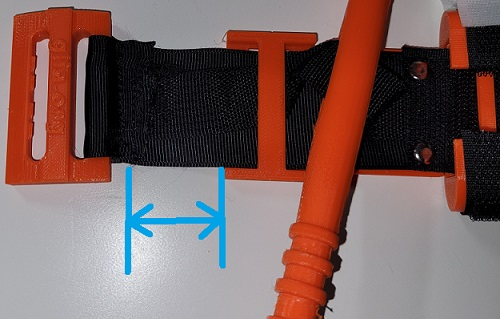
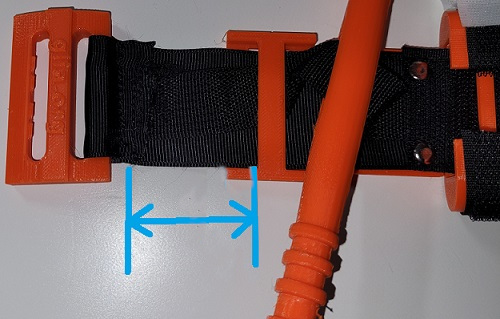
Added Denys' Illustrations to Updated EN Instructions and changed Korin's photo 60A1 (#43)
* Update INSTRUCTIONS_EN.md

* Update INSTRUCTIONS_EN.md

* Add files via upload

* Add files via upload

* Added Denys' illustrations to EN instructions.

Illustrations 5 and 9 were not used due to possible confusion with current updated English instructions/photos.

* Add modified photo to quality_images to show correct dimension.

Modified image shows to the bridge of the back plate, not just to the edge of the back plate.

* Changed image 60A1 to 60A2 in order to reflect change in dimension stated.

Dimension is measured from bridge of back plate, not the edge of the back plate.

* Delete IC-0060A1.jpg

* Delete IC-0060A2.jpg

* Update tourniquet quality inspection.md

* Adds edited photo 60A1 back in 

Photo edited to depict proper dimension.

* Added illustration 5 to step #5

Adding illustration 5 to step #5 in these updated EN instructions.

Changed region(s): [[0.39, 0.5078, 0.54, 0.8464]]

diff --git a/assembly_instructions/INSTRUCTIONS_EN.md b/assembly_instructions/INSTRUCTIONS_EN.md
@@ -27,8 +27,12 @@ https://github.com/GliaX/tourniquet
 |Nylon Heavy Webbing Strap 2 cm wide|1|95cm|
 |White Adhesive Hook 2 cm wide|1|16cm|
 |Non-Adhesive Loop 2 cm wide|1|17cm|
-
-<br>
+![Illustration 1](../assets/instructions/illustration1.jpg)
+<p>
+<p>
+*Please keep in mind, the Polyester Cotton Webbing Strap in the above graphic, is actually the Polyester Grosgrain Ribbon in the table above the graphic. It's referenced at the lengths in the table due to the Canada office wanting zero waste of the strapping, or as little as possible. The graphic has both inner and outer strapping at 97cm, which works, but may have some excess strap to trim. it's probably safer to start with 97cm for initial device.*
+<p>
+<p>
 2. For the front face of the belt, begin by placing the Hook and Loop in order of how they will be sewn together. The first piece to sew is the 6cm Loop to the 6cm Hook at the rounded end of the belt.
 
 |![Fig2](../assets/instructions/fig2.png)|
@@ -36,25 +40,28 @@ https://github.com/GliaX/tourniquet
 
 3. Sew pieces together sequentially in a cascading pattern by placing the edge of each piece above the edge of the next piece and then sewing across them along the seam a couple of times with a zigzag stitch. This type of assembly increases tensile strength, and facilitates a smooth pull through the buckle.
 
-|![Fig3](../assets/instructions/fig3.png)|
-|:-------------------------|
+![Fig3](../assets/instructions/fig3.png)
+![Illustration 2](../assets/instructions/illustration2.jpg)
+![Illustration 3](../assets/instructions/illustration3.jpg)
 
 4. Sew the polyester grosgrain strap (3.8cm wide) to the Hook and Loop assembly just sewn, making sure that the Hook and Loop is facing outward. Sew one long side only and leave the other side free to insert the internal belt. (For alternative method of inserting internal belt, please see Addendum at the bottom of these Tourniquet Assembly Instructions.)
 
-|![Fig4](../assets/instructions/fig4.jpg)|![Fig5](../assets/instructions/fig5.jpg)|
-|:--------------------------------------|:-------------------------|
-
+![Fig4](../assets/instructions/fig4.jpg)
+![Fig5](../assets/instructions/fig5.jpg)
+![Illustration 4](../assets/instructions/illustration4.jpg)
 
 5. Insert the internal belt between the front and back of the external belt, and then sew across the internal and external belts with a straight stitch 3 cm from the end with the small 6 cm Loop 	piece, anchoring the internal belt between both sides of the external belt.
 
-|![Fig6](../assets/instructions/fig6.png)|![Fig7](../assets/instructions/fig7.png)|
-|:--------------------------------------|:-------------------------|
-
+![Fig6](../assets/instructions/fig6.png)
+![Illustration 5](../assets/instructions/illustration5.jpg)
+![Fig7](../assets/instructions/fig7.png)
+![Illustration 6](../assets/instructions/illustration6.jpg)
 
 6. Sew box stitch 5 cm from end (2 cm from straight stitch across belts), then cut end round and 	sew around the cut edge. Carefully burn off frayed edge of belt.
 
-|![Fig8](../assets/instructions/fig8.png)|
-|:-------------------------|
+![Fig8](../assets/instructions/fig8.png)
+![Illustration 7](../assets/instructions/illustration7.jpg)
+![Illustration 8](../assets/instructions/illustration8.jpg)
 
 7. Sew the open side of the exterior belt making sure not to sew the side edge of the internal belt as well. **It is very important that the internal belt remains free to move.**
 
@@ -121,7 +128,7 @@ https://github.com/GliaX/tourniquet
 |:--------------------------------------|:-------------------------|
 
 
-18. Completed tourniquet, folded and ready for packaging.
+18. Completed tourniquet, folded and ready for packaging. See folding video [here](https://www.youtube.com/watch?v=CSECJQPJmLw)
 
 |![Fig25](../assets/instructions/fig25.jpg)|
 |:-------------------------|
